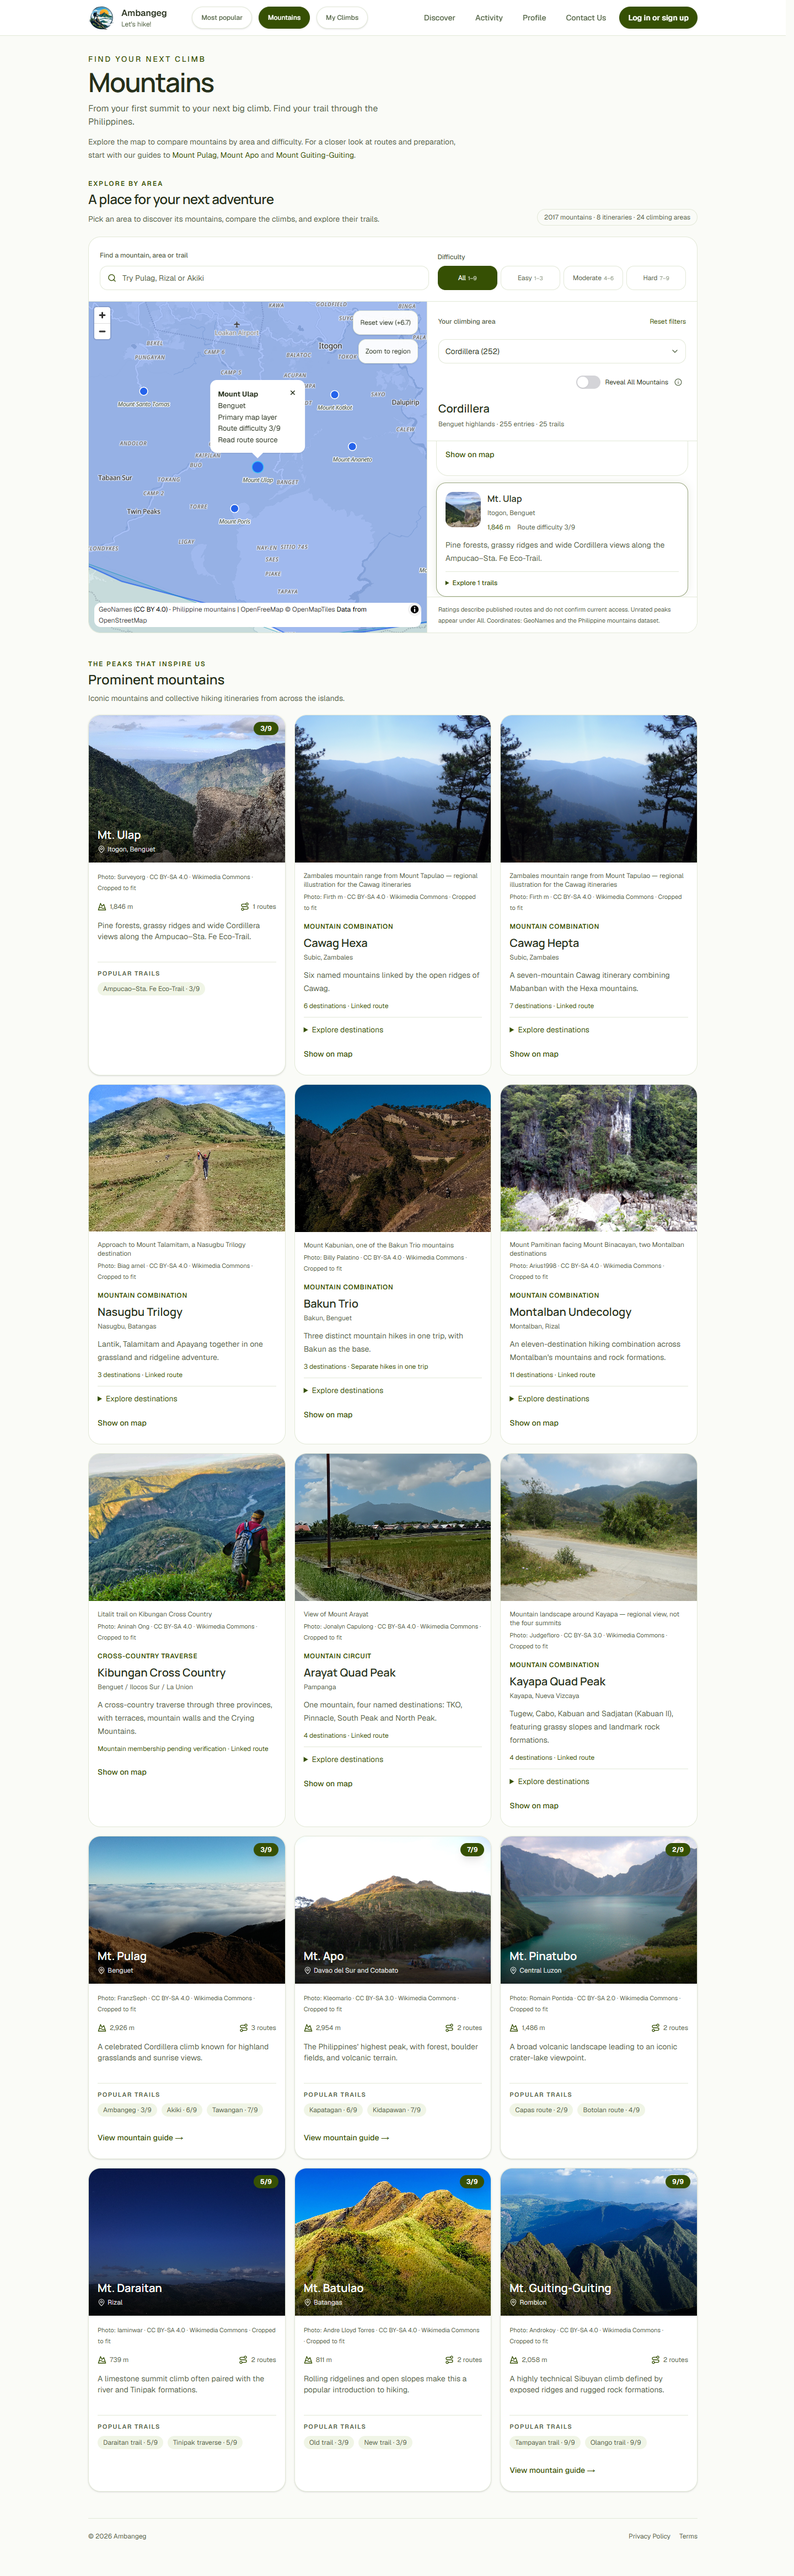
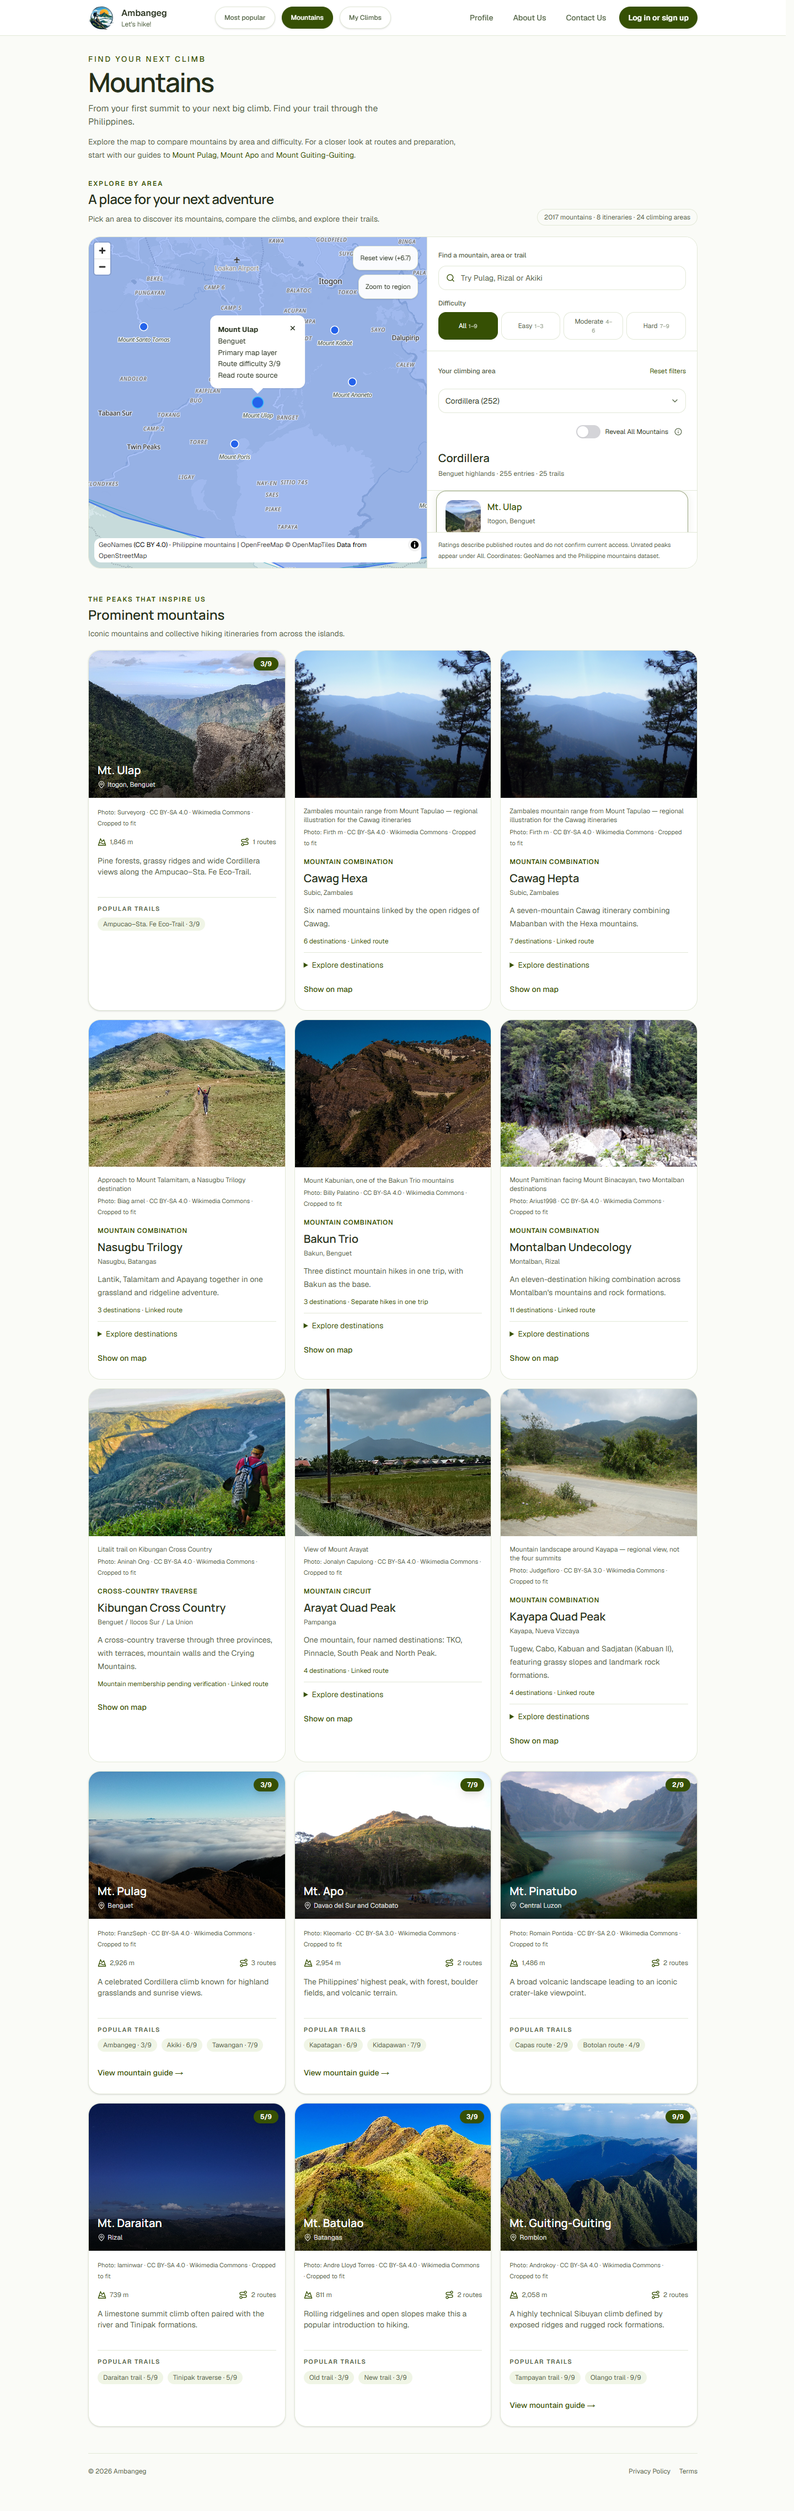
docs(ui): refresh desktop and mobile screenshots
Capture the full homepage, both My Climbs layouts and the new About Us article. Update the reusable screenshot workflow and README to describe the current map filters, guide cards, memes and bagtags.

Changed region(s): [[0.0938, 0.0, 0.875, 0.9666], [0.8125, 0.1247, 0.8438, 0.1559], [0.7188, 0.1247, 0.75, 0.1559]]

diff --git a/README.md b/README.md
@@ -2,11 +2,11 @@
 
 Ambangeg is a responsive Philippine hiking discovery app. Explore mountains on an interactive map, compare trails and difficulty, read mountain guides, create personalized bag tags, and keep a gallery of your climbs.
 
-The Mountains explorer connects map pins to mountain cards: selecting either focuses the map and highlights the matching mountain. Desktop shows the map and list side by side; mobile uses a collapsible bottom sheet that keeps the selected peak visible above the list.
+The Mountains explorer connects map pins to mountain cards: selecting either focuses the map and highlights the matching mountain. Desktop keeps search and filters in the right column beside the map; mobile moves them into the draggable bottom sheet.
 
 ## Preview
 
-The home screen keeps the full-width **Flex My Hike** creator above the trail cards. Its live bag-tag preview sits beside the form on larger screens and stacks below it on mobile.
+The home screen keeps the full-width **Flex My Hike** creator above three shareable hiking memes and featured article guides. Its live bag-tag preview sits beside the form on larger screens and stacks below it on mobile. Guide cards use an edge-to-edge image across one-third of the card.
 
 ### Desktop
 
@@ -48,7 +48,7 @@ The first dedicated guides cover **Mount Pulag**, **Mount Apo** and **Mount Guit
 
 ### My Climbs
 
-The My Climbs collection keeps up to three pinned mountains at the front of the same responsive grid. Pin choices are stored locally in the browser until a database-backed profile is connected.
+My Climbs defaults to photo bagtags, with a Circle / Bagtag selector beside **Pin favourites**. Bagtags show the hiker’s first name, a transparent punched hole and climb details below the image. White angled pins keep up to three favourites at the front of the grid. Hover or touch triggers a reflective sweep and a thin green stroke around the card. Pin choices are stored locally in the browser until a database-backed profile is connected.
 
 #### Desktop
 
@@ -57,6 +57,12 @@ The My Climbs collection keeps up to three pinned mountains at the front of the 
 #### Mobile
 
 <img src="docs/screenshots/mobile-my-climbs-390w.png" alt="Ambangeg mobile My Climbs page with every mountain photo loaded and cards fully contained" width="390" />
+
+### About Us
+
+A Taglish article shares the love of hiking, trail friendships and a little summit humor. **About Us** appears before **Contact Us** in desktop and mobile navigation.
+
+![Ambangeg About Us article](docs/screenshots/desktop-about-us.png)
 
 ## Features
 
@@ -70,11 +76,12 @@ The My Climbs collection keeps up to three pinned mountains at the front of the 
 - Static hiking guides for Pulag, Apo and Guiting-Guiting
 - Per-guide titles, descriptions, canonical URLs and breadcrumb structured data
 - Personalized mountain bag tags with a downloadable PNG
-- Browseable trail cards and category tabs
+- Hiking meme cards with Facebook, native image sharing and clipboard fallback
+- Featured article guides with edge-to-edge photography
 - Real hiking photography with proportional image cropping
 - Interactive trip-detail views for each featured trail
 - Sortable My Climbs gallery with up to three locally persisted pinned mountains
-- Compact mobile header and desktop navigation
+- Compact mobile header and desktop navigation with About Us and Contact Us
 - Custom Ambangeg branding and favicon
 
 ## Built with

diff --git a/docs/screenshots/README.md b/docs/screenshots/README.md
@@ -2,10 +2,12 @@
 
 Desktop views use a 1440 × 1000 viewport; mobile views use 390 × 844.
 Page captures show the full page. Destination picker and multi-day form captures
-show the viewport so the modal matches what a user sees.
+show the viewport so the modal matches what a user sees. The homepage scroll
+shell is expanded only for capture so memes and hiking guides are included.
 
 The My Climbs gallery uses the 12 local preview entries, including one unfinished
-climb. The form examples show Paminahawa Ridge and the multi-day date inputs.
+climb, captured in the default Bagtag layout and the optional Circle layout.
+About Us is included at both viewport sizes. The form examples show Paminahawa Ridge and the multi-day date inputs.
 The mountain explorer captures focus on Mount Ulap with the region zoom control.
 
 To regenerate against a running preview:
